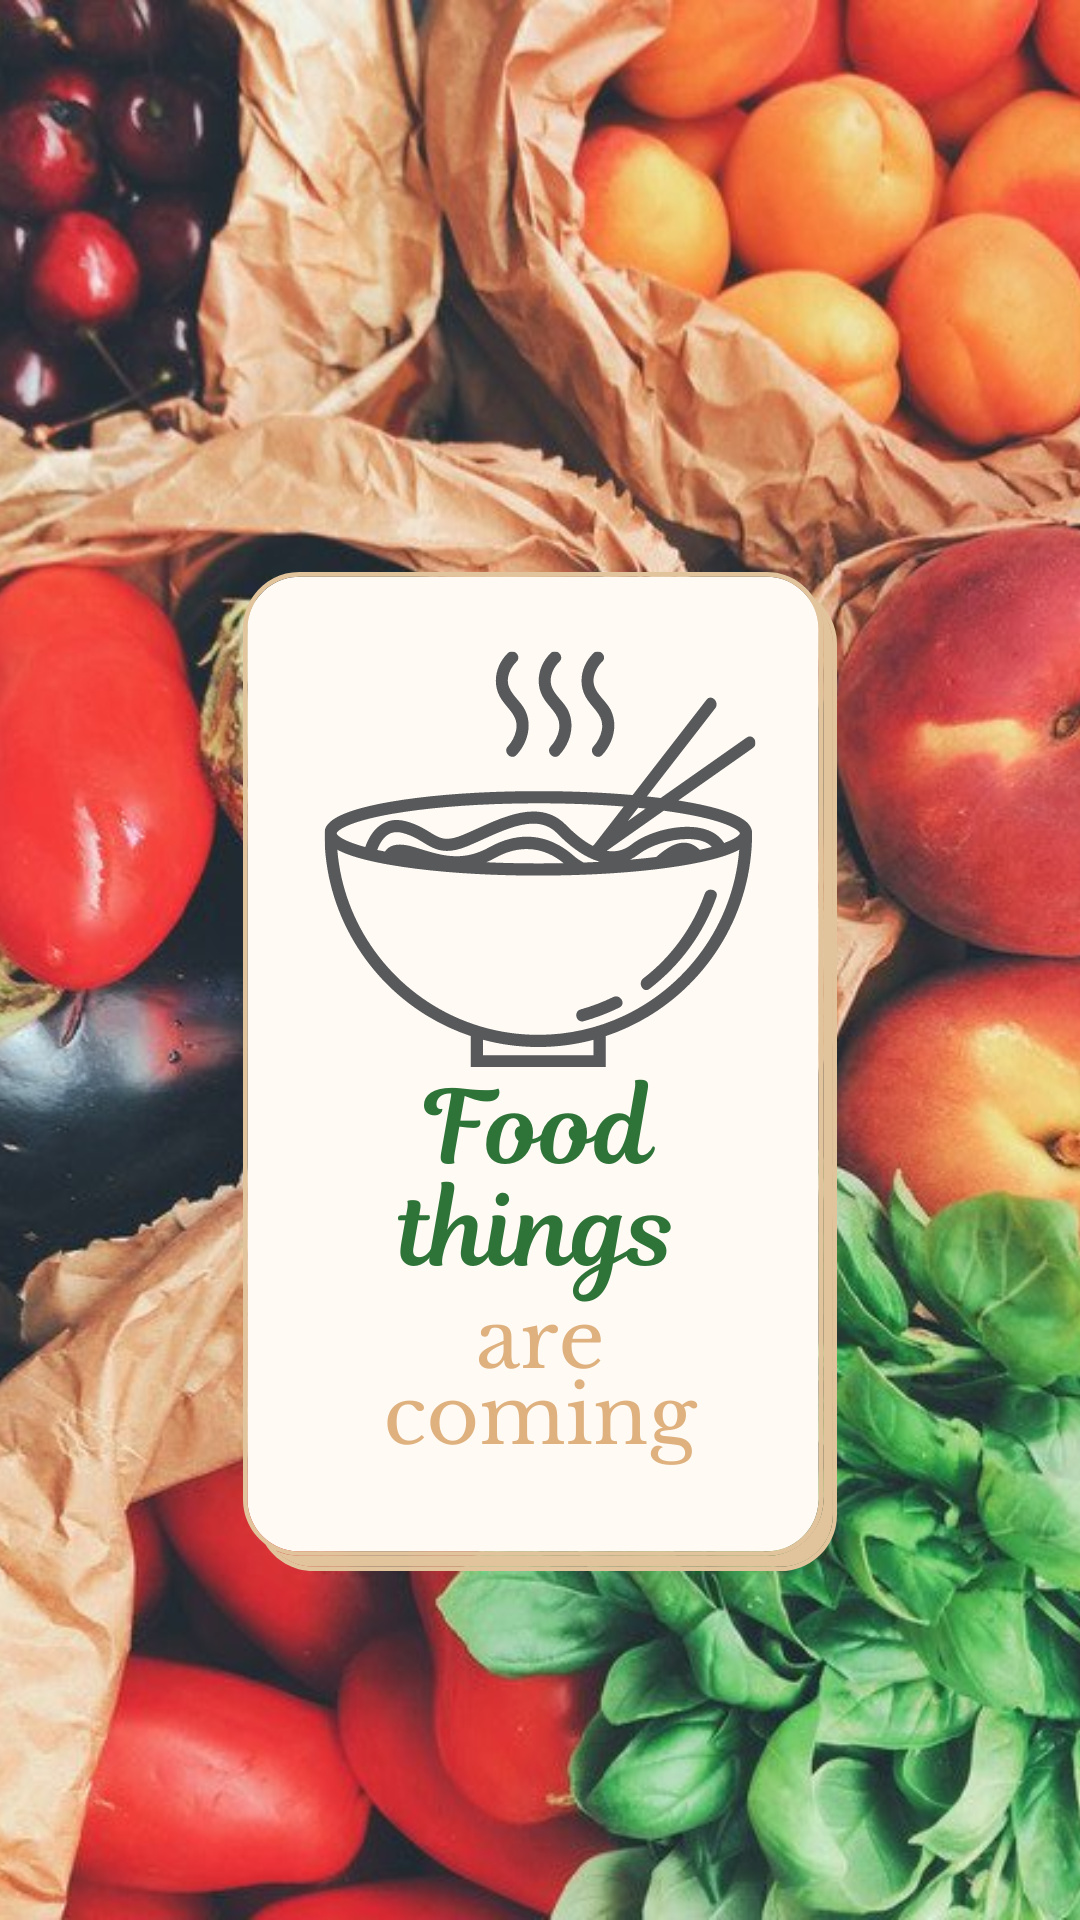
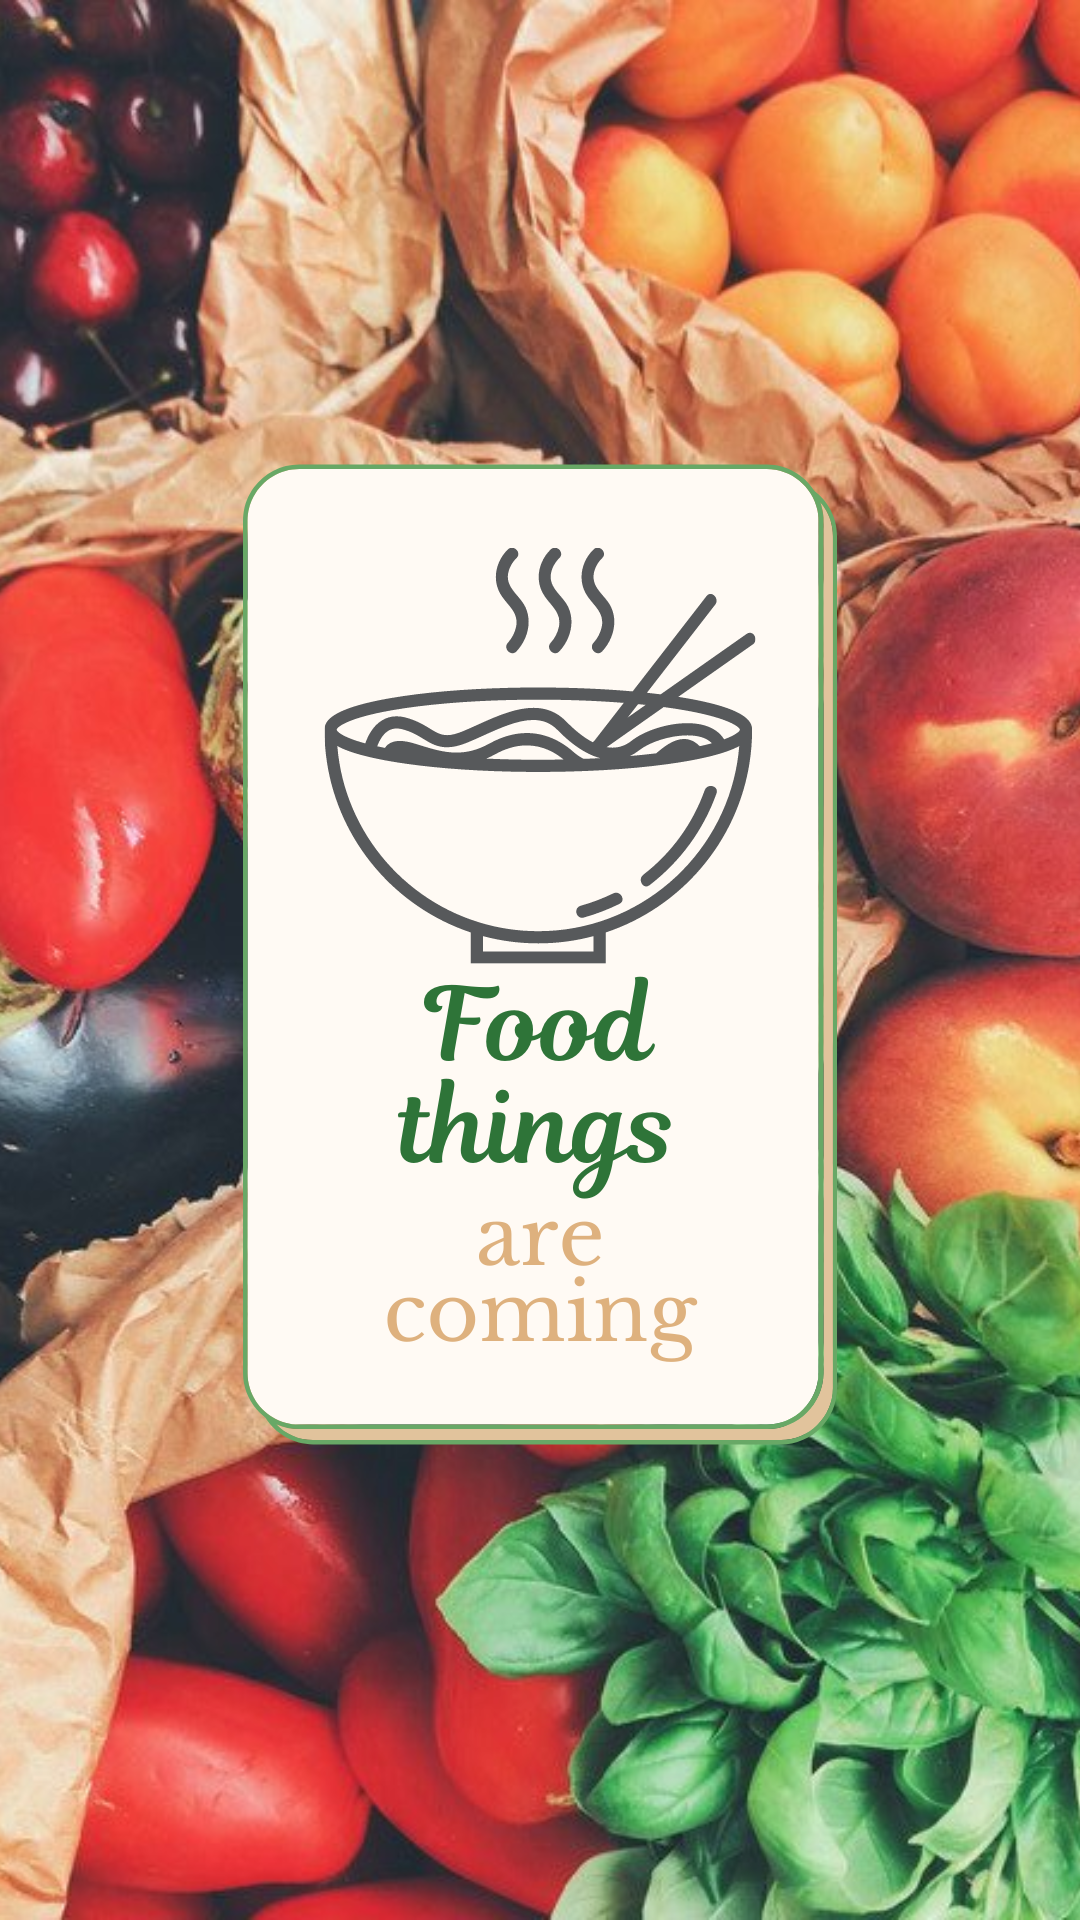
added new stack for front page, small changes

Changed region(s): [[0.2139, 0.2188, 0.7944, 0.8438]]

diff --git a/components/Shoppinglist.js b/components/Shoppinglist.js
@@ -1,5 +1,5 @@
 import React, { useState, useEffect } from 'react';
-import { Text, View, Button, TextInput, FlatList, Alert } from 'react-native';
+import { Text, View, Button, TextInput, FlatList, Alert, TouchableOpacity } from 'react-native';
 import styles from './Styles.js';
 import { initializeApp } from 'firebase/app';
 import{ getDatabase, push, ref, onValue, remove }  from"firebase/database";
@@ -60,24 +60,46 @@ export default function Shoppinglist() {
     )
   }
 
-  const deleteItem = (items) => {
-    remove(ref(database, 'items/'), {
-      'product': product, 'amount': amount
-    });
-    setItems([]);
-  }
+  const deleteItem = (product) => {
+    const itemsRef = ref(database, 'items/');
+
+    onValue(itemsRef, (snapshot) => {
+        snapshot.forEach((childSnap) => {
+            if (childSnap.val().product === product) {
+                const deleteRef = ref(database, 'items/' + childSnap.key);
+                remove(deleteRef)
+                    .then(function () {
+                        console.log("Remove succeeded.")
+                    })
+                    .catch(function (error) {
+                        console.log("Remove failed: " + error.message)
+                    });
+
+            }
+        })
+    })
+}
 
   return (
     <View style={styles.container}>
       <TextInput placeholder="Product" style={styles.textInput} onChangeText={product => setProduct(product)} value={product} />
       <TextInput placeholder="Amount" style={styles.textInput} onChangeText={amount => setAmount(amount)} value={amount}  />
-      <Button style={styles.buttonContainer1} onPress={saveItem} title="Add to shopping list" />
-      <Button style={styles.buttonContainer1} onPress={deleteAll} title="Delete items" />
+      <TouchableOpacity onPress={saveItem} style={styles.button}>
+        <Text>Add to shoppinglist</Text>
+      </TouchableOpacity>
+      <TouchableOpacity onPress={deleteAll} style={styles.button}>
+        <Text>Delete items</Text>
+      </TouchableOpacity>
       <FlatList
         data={items}
         keyExtractor={(item, index) => index.toString()}
         renderItem={({ item }) =>
-          <Text style={styles.listContainer} >{item.product}, {item.amount} kpl</Text>
+        <View style={styles.shoppingListContainer}>
+          <Text style={styles.listContainer}>{item.product}, {item.amount} kpl</Text>
+          <TouchableOpacity onPress={() => deleteItem(item.product)}  style={styles.button}>
+        <Text>Delete</Text>
+      </TouchableOpacity>
+          </View>
         }
       />
     </View>

diff --git a/App.js b/App.js
@@ -3,6 +3,8 @@ import Search from './components/Search';
 import Frontpage from './components/Frontpage';
 import Shoppinglist from './components/Shoppinglist';
 import Recipe from './components/Recipe';
+import Categories from './components/Categories';
+import FrontPageRecipe from './components/FrontPageRecipe'
 import { NavigationContainer } from '@react-navigation/native';
 import { createBottomTabNavigator} from '@react-navigation/bottom-tabs';
 import { createStackNavigator } from '@react-navigation/stack'
@@ -15,7 +17,17 @@ const Stack = createStackNavigator();
 const MainStackNavigator = () => {
   return (
     <Stack.Navigator >
-      <Stack.Screen options={{headerShown: false}}  name="Back to search" component={Search} />
+      <Stack.Screen options={{headerTransparent: true, headerTitle:""}} name="Search" component={Frontpage} />
+      <Stack.Screen options={{headerTransparent: true, headerTitle:""}} name="Categories" component={Categories} />
+      <Stack.Screen name="FrontPageRecipe" component={FrontPageRecipe} />
+    </Stack.Navigator>
+  );
+}
+
+const SearchStackNavigator = () => {
+  return (
+    <Stack.Navigator >
+      <Stack.Screen options={{headerShown: false}} name="Back to search" component={Search} />
       <Stack.Screen name="Recipe" component={Recipe} />
     </Stack.Navigator>
   );
@@ -26,7 +38,7 @@ const BottomTabNavigator = () => {
     <Tab.Navigator>
       <Tab.Screen 
         name="Frontpage" 
-        component={Frontpage} 
+        component={MainStackNavigator} 
         options= {{
           tabBarIcon: ({ color, size }) => (
             <MaterialCommunityIcons name="food-variant" size={24} color="black" />
@@ -37,7 +49,7 @@ const BottomTabNavigator = () => {
       />
        <Tab.Screen 
         name="Search" 
-        component={MainStackNavigator}
+        component={SearchStackNavigator}
         options= {{
           tabBarIcon: ({ color, size }) => (
             <AntDesign name="search1" size={24} color="black" />

diff --git a/components/Categories.js b/components/Categories.js
@@ -1,0 +1,56 @@
+import React, { useState, useEffect } from 'react';
+import styles from './Styles.js';
+import { ScrollView, Text, View, Image, FlatList, TouchableNativeFeedback } from 'react-native';
+
+export default function Categories({ route, navigation }) {
+
+  const { meal } = route.params;
+  const [name, setName] = useState(meal.strCategory);
+  const [recipes, setRecipes] = useState();
+
+  useEffect(() => {
+    fetch(`https://www.themealdb.com/api/json/v1/1/filter.php?c=${name}`)
+      .then(response => response.json())
+      .then(responseJson => setRecipes(responseJson.meals))
+      .catch((e) => console.log(e))
+  }, []);
+
+  const renderItem = ({ item }) => (
+    <View style={styles.listContainer}>
+        <TouchableNativeFeedback style={{ flex: 0.5, borderColor: "black", borderWidth: 1 }} onPress={() => navigation.navigate('FrontPageRecipe', { meal: item })}>
+        <Text style={styles.listContainer}>{item.strMeal}</Text>
+      </TouchableNativeFeedback>
+      <View>
+      <TouchableNativeFeedback style={{ flex: 0.5, borderColor: "black", borderWidth: 1 }} onPress={() => navigation.navigate('FrontPageRecipe', { meal: item })}>
+          <Image
+            style={{ width: 80, height: 80 }}
+            source={{ uri: item.strMealThumb }}>
+          </Image>
+        </TouchableNativeFeedback>
+      </View>
+    </View>
+  )
+
+  const renderSeparator = () => (
+    <View
+      style={{
+        backgroundColor: 'lightgrey',
+        height: 0.5,
+        width: "80%",
+        marginLeft: "10%"
+      }}
+    />
+  )
+
+  return (
+    <View style={styles.container}>
+      <Text style={styles.textContainer}>Foods from {name} category</Text>
+      <FlatList
+        style={styles.listContainer}
+        keyExtractor={(item, index) => index.toString()}
+        renderItem={renderItem}
+        data={recipes}
+        ItemSeparatorComponent={renderSeparator} />
+    </View>
+  );
+}

diff --git a/components/FrontPageRecipe.js b/components/FrontPageRecipe.js
@@ -1,0 +1,57 @@
+import React, { useState, useEffect } from 'react';
+import styles from './Styles.js';
+import { ScrollView, Text, View, Image, FlatList } from 'react-native';
+
+export default function FrontPageRecipe({ route }) {
+
+    const { meal } = route.params;
+    const [name, setName] = useState(meal.strMeal);
+    const [recipes, setRecipes] = useState();
+
+    useEffect(() => {
+        fetch(`https://www.themealdb.com/api/json/v1/1/search.php?s=${name}`)
+            .then(response => response.json())
+            .then(responseJson =>
+                setRecipes(responseJson.meals))
+            .catch((e) => console.log(e))
+    }, []);
+
+    const renderItem = ({ item }) => (
+        <View>
+            <ScrollView>
+                <Text style={styles.recipeContainerBig}>{name}</Text>
+                <Image
+                    style={{
+                        width: 380,
+                        height: 380
+                    }}
+                    source={{ uri: meal.strMealThumb }}
+                    resizeMode='contain'
+                />
+                <Text style={styles.textContainer}>Food category: {item.strCategory}</Text>
+                <Text style={styles.recipeContainerText}>{item.strInstructions}</Text>
+            </ScrollView>
+        </View>
+    )
+
+    const renderSeparator = () => (
+        <View
+            style={{
+                backgroundColor: 'lightgrey',
+                height: 0.5,
+                width: "80%",
+                marginLeft: "10%"
+            }}
+        />
+    )
+
+    return (
+        <View style={styles.container}>
+            <FlatList
+                keyExtractor={(item, index) => index.toString()}
+                renderItem={renderItem}
+                data={recipes}
+                ItemSeparatorComponent={renderSeparator} />
+        </View>
+    );
+}

diff --git a/components/Frontpage.js b/components/Frontpage.js
@@ -1,9 +1,9 @@
 import React, { useState, useEffect } from 'react';
 import styles from './Styles.js';
-import { FlatList, Text, View, Image, ImageBackground } from 'react-native';
+import { FlatList, Text, View, ImageBackground, TouchableNativeFeedback } from 'react-native';
 
 
-export default function Frontpage() {
+export default function Frontpage({ navigation }) {
 
   const [recipes, setRecipes] = useState('');
 
@@ -25,14 +25,11 @@ export default function Frontpage() {
     />
   )
 
-  return (
-    <View style={styles.container}>
-      <Text style={styles.textContainer}>Welcome to RecipeApp!</Text>
-      <Text style={styles.textContainerSmall}>We currently have different recipes within these categories:</Text>
-      <FlatList
-        keyExtractor={(item, index) => index.toString()}
-        renderItem={({ item }) =>
-          <View>
+  const renderItem = ({ item }) => (
+    <View >
+      <View>
+        <TouchableNativeFeedback onPress={() => navigation.navigate('Categories', { meal: item })}>
+        <View>
             <ImageBackground source={{ uri: item.strCategoryThumb }} style={{
               flex: 1,
               flexDirection: 'row',
@@ -50,7 +47,18 @@ export default function Frontpage() {
                 <Text style={styles.headerContainer}>{item.strCategory}</Text>
               </View>
             </ImageBackground>
-          </View>}
+          </View>
+        </TouchableNativeFeedback>
+      </View>
+    </View>
+  )
+
+  return (
+    <View style={styles.container}>
+      <Text style={styles.textContainer}>Welcome to the RecipeApp!</Text>
+      <FlatList
+        keyExtractor={(item, index) => index.toString()}
+        renderItem={renderItem}
         data={recipes}
         ItemSeparatorComponent={renderSeparator} />
     </View>

diff --git a/components/Styles.js b/components/Styles.js
@@ -16,6 +16,16 @@ const styles = StyleSheet.create({
     padding: 10,
     backgroundColor: 'rgb(255,250,244)',
   },
+  shoppingListContainer: {
+    flex: 1,
+    width: 350,
+    fontSize: 30,
+    borderRadius: 50,
+    padding: 10,
+    flexDirection: 'row', 
+    padding: 15,
+    backgroundColor: 'rgb(255,250,244)',
+  },
   buttonContainer1: {
     flex: 4,
     width: 200,
@@ -23,6 +33,16 @@ const styles = StyleSheet.create({
     alignItems: 'flex-start',
     justifyContent: 'space-around',
     borderRadius: 50,
+  },
+  button: {
+    width: "40%",
+    borderRadius: 25,
+    height: 50,
+    alignItems: "center",
+    justifyContent: "center",
+    marginTop: 10,
+    marginBottom: 10,
+    backgroundColor: "rgb(104,168,102)",
   },
   imageContainer: {
     flex: 1,
@@ -33,7 +53,8 @@ const styles = StyleSheet.create({
   },
   textInput: {
     fontSize: 30,
-
+    marginTop: 15,
+    marginBottom: 15,
   },
   textContainer: {
     fontSize: 30,

diff --git a/components/Search.js b/components/Search.js
@@ -1,4 +1,4 @@
-import React, { useState } from 'react';
+import React, { useState, useEffect } from 'react';
 import styles from './Styles.js';
 import { AntDesign } from '@expo/vector-icons';
 import { Alert, Button, FlatList, Text, TextInput, View, Image, TouchableNativeFeedback } from 'react-native';
@@ -7,6 +7,14 @@ export default function Search({ navigation }) {
 
   const [recipes, setRecipes] = useState('');
   const [name, setName] = useState('');
+
+  useEffect(() => {
+    fetch(`https://www.themealdb.com/api/json/v1/1/random.php`)
+      .then(response => response.json())
+      .then(responseJson => setRecipes(responseJson.meals))
+      .catch((e) => console.log(e))
+  }, []);
+
 
   const fetchRecipes = () => {
     fetch(`https://www.themealdb.com/api/json/v1/1/search.php?s=${name}`)

diff --git a/components/Recipe.js b/components/Recipe.js
@@ -1,6 +1,6 @@
 import React, { useState } from 'react';
 import styles from './Styles.js';
-import { ScrollView, Text, View, Image, ImageBackground } from 'react-native';
+import { ScrollView, Text, View, Image } from 'react-native';
 
 export default function Recipe({ route }) {
 
